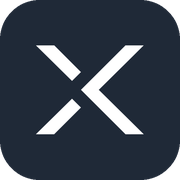
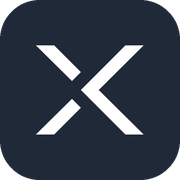
Use the official X cuts for every brand asset

diff --git a/src/components/brand/ItrixLogo.tsx b/src/components/brand/ItrixLogo.tsx
@@ -20,15 +20,16 @@ import Image from 'next/image';
  * so a neighbouring nav item cannot encroach on it.
  *
  * ── LOGO REFRESH (2026-08, Brand Manual v2.0) ───────────────────────────────
- * The assets under /brand are cut from the supplied `1__ITRIX_Logo.ai` — the
- * current mark. It is a WIDER lockup than the one it replaces (≈3.24:1 against
- * ≈2.19:1), so the ratio below changed with the files; at the same rendered
- * width the mark now stands shorter, which is the mark's own geometry, not a
- * squeeze. SVG cuts of the same artwork sit beside the PNGs in /brand for any
+ * The assets under /brand are the OFFICIAL supplied cuts — light and dark mode
+ * each shipped as its own file, used exactly as delivered (the earlier assets
+ * were derived from a draft .ai whose X was not the final letterform). The
+ * lockup is ≈3.24:1; at the same rendered width it stands shorter than the old
+ * ≈2.19:1 mark, which is the mark's own geometry, not a squeeze. SVG cuts
+ * traced from the same official artwork sit beside the PNGs in /brand for any
  * consumer that wants vectors.
  *
- * The source PNGs are 1504×464 (≈3.24:1); the height follows the width from that
- * exact ratio so the lockup is never stretched.
+ * The primary source PNG is 1446×446 (≈3.24:1); the height follows the width
+ * from that exact ratio so the lockup is never stretched.
  */
 export interface ItrixLogoProps {
   /** Rendered width in px. The approved header uses 120 desktop / 96 mobile. */
@@ -40,7 +41,7 @@ export interface ItrixLogoProps {
 }
 
 /** Exact aspect ratio of the supplied wordmark assets (both cuts share it). */
-const ASPECT = 1504 / 464;
+const ASPECT = 1446 / 446;
 
 const SOURCES: Record<'light' | 'dark', string> = {
   light: '/brand/itrix-logo-primary.png',

diff --git a/src/components/composer/AskItrixButton.tsx b/src/components/composer/AskItrixButton.tsx
@@ -55,9 +55,9 @@ export function AskItrixButton({ disabled = false, submitting = false }: AskItri
           src="/brand/itrix-x-inverse.png"
           alt=""
           aria-hidden="true"
-          /* Intrinsic size of the refreshed cut (554×457 ≈ 1.21:1 — the new X is
-             WIDER than tall, where the old cut was taller than wide). The CSS
-             class sets the display width and derives the height from this ratio. */
+          /* Intrinsic size of the official cut (663×548 ≈ 1.21:1 — the X is
+             WIDER than tall, where the pre-refresh cut was taller than wide). The
+             CSS class sets the display width and derives the height from this ratio. */
           width={20}
           height={17}
           priority
